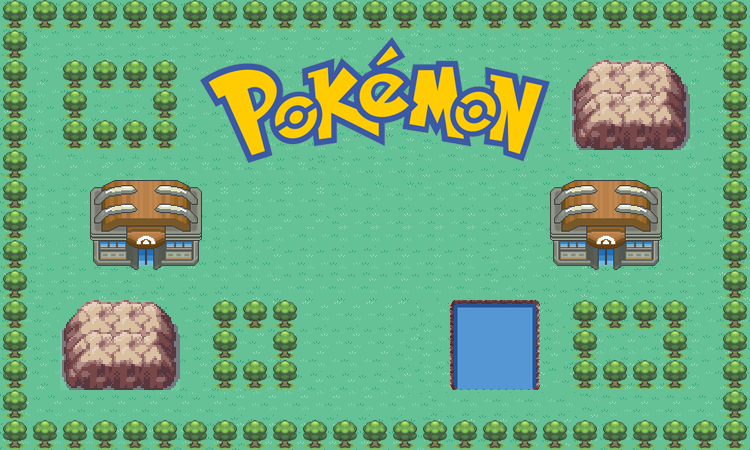
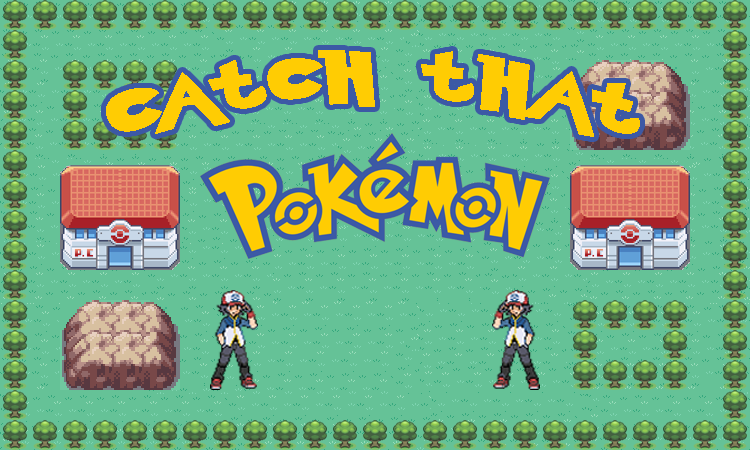
Main screen and gameover screen fixed. Minor bugs fixed.

Changed region(s): [[0.0613, 0.0933, 0.92, 0.6222], [0.5827, 0.6222, 0.736, 0.8711], [0.276, 0.6222, 0.3987, 0.8711]]

diff --git a/js/game.js b/js/game.js
@@ -407,7 +407,6 @@
 		this.gameoverScreen = document.getElementById("gameover-screen");
 		this.result = document.getElementById("gameover-screen").children[0];
 		this.playAgain = document.getElementById("gameover-screen").children[1];
-		this.mainMenu = document.getElementById("gameover-screen").children[2];
 
 		var levelMap = [
 			[1,1,1,1,1,1,1,1,1,1,1,1,1,1,1,1,1,1,1,1,1,1,1,1,1],
@@ -727,14 +726,8 @@
 
 			//play-again button
 			that.playAgain.onclick = function() {
-				// that.init();
-				// that.gameoverScreen.style.display = "none";
-				// that.element.style.display = "block";
-			}
-			//main menu button
-			that.mainMenu.onclick = function() {
-				// that.gameoverScreen.style.display = "none";
-				// that.mainScreen.style.display = "block";
+				// reload the page
+				location.reload();
 			}
 		};
 	};

diff --git a/css/layout.css b/css/layout.css
@@ -21,7 +21,7 @@
 .play {
 	width: 150px;
 	height: 90px;
-	top: 180px;
+	top: 300px;
 	left: 300px;
 	position: absolute;
 	opacity: 0.7;
@@ -60,7 +60,7 @@
 .result {
 	width: 270px;
 	height: 240px;
-	top: 60px;
+	top: 90px;
 	left: 60px;
 	position: absolute;
 	background-color: purple;
@@ -68,7 +68,7 @@
 .play-again {
 	width: 270px;
 	height: 60px;
-	top: 180px;
+	top: 270px;
 	right: 60px;
 	position: absolute;
 	opacity: 0.7;
@@ -77,19 +77,5 @@
     transition: opacity 1s;
 }
 .play-again:hover {
-	opacity: 1;
-}
-.main-menu {
-	width: 270px;
-	height: 60px;
-	top: 300px;
-	right: 60px;
-	position: absolute;
-	opacity: 0.7;
-	background: url("../images/go-to-mainmenu.png") no-repeat;
-	-webkit-transition: opacity 1s; /* For Safari 3.1 to 6.0 */
-    transition: opacity 1s;
-}
-.main-menu:hover {
 	opacity: 1;
 }

diff --git a/index.html b/index.html
@@ -17,7 +17,6 @@
 		<div id="gameover-screen">
 			<div class="result"></div>
 			<div class="play-again"></div>
-			<div class="main-menu"></div>
 		</div>
 	</div>
 
